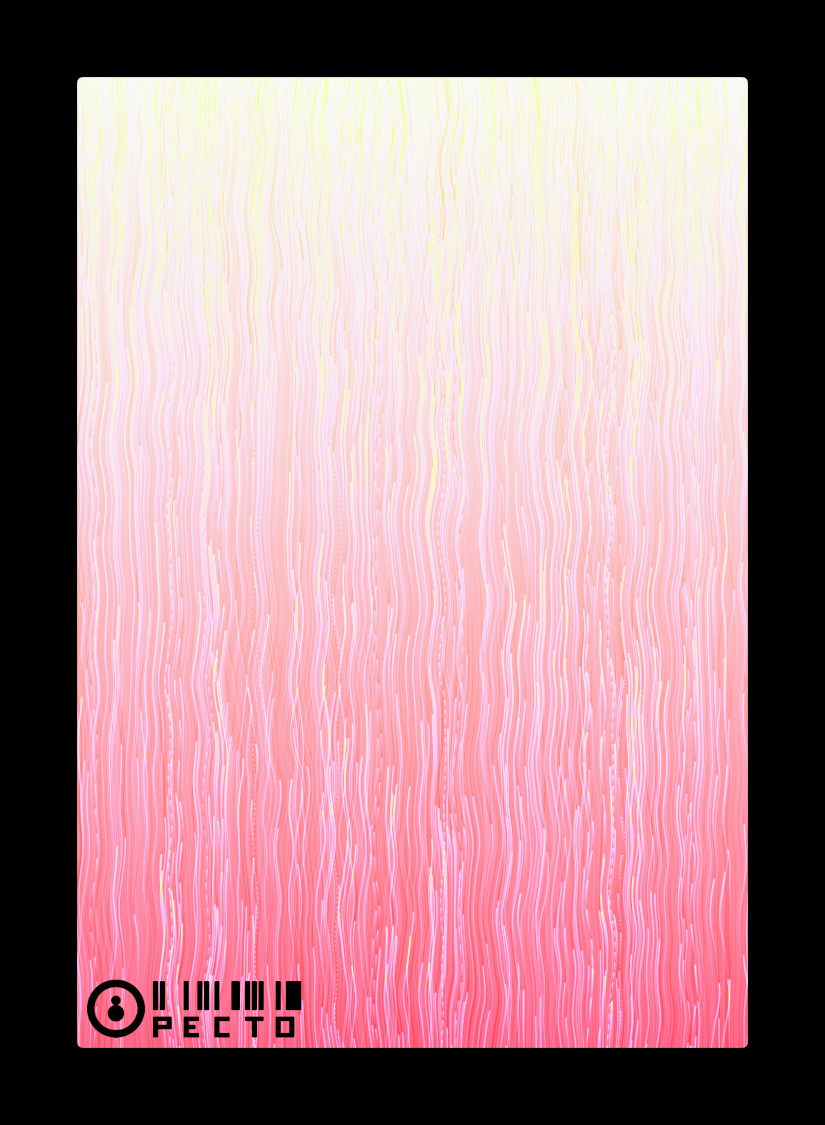
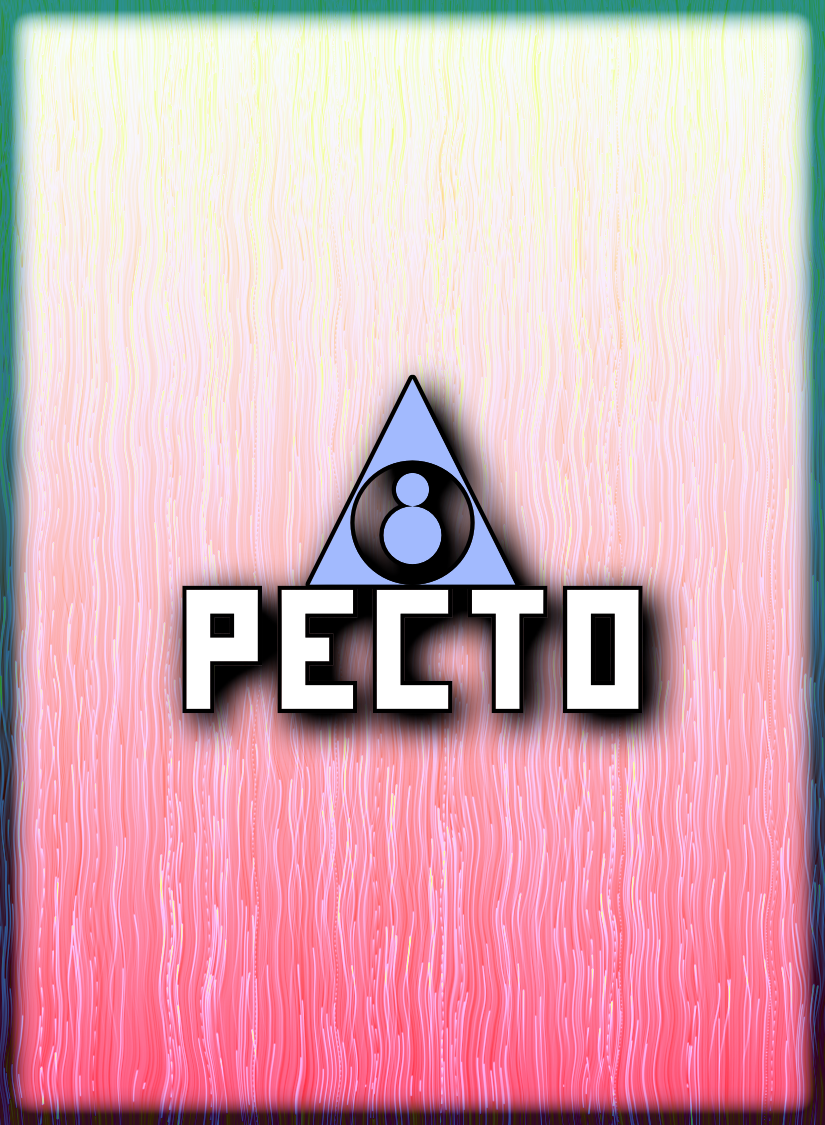
created a base quickstart rulebook

diff --git a/rules/RULESET_5.4.md b/rules/RULESET_5.4.md
@@ -1,0 +1,250 @@
+# :book: Pecto TCG — Official Rulebook :book:
+
+**Cole Smith-Evans 2026**
+*PectoTCG V5.3*
+
+---
+
+## Game Overview
+
+Pecto is a tactical card game where players deploy cards onto a shared battlefield. The objective of the game is to create a board state stronger than your opponents, and ultimately redue their life to 0 as a result.
+
+Each player manages:
+
+- A Deck
+- A Discard
+- A Void
+- Life
+- Level Cap
+
+---
+
+## Deck Construction
+
+Each deck contains 20 cards, which is then divided during the game.
+
+- Deck
+  - Your draw pile.
+- Hand
+  - Your playable cards.
+- Discard
+  - Where perished cards go.
+- Void
+  - A removed-from-game pile. Cards here typically cannot return.
+
+---
+
+## Card Anatomy
+
+Each card contains the following elements:
+
+### Name
+
+The name of the specific card.
+
+### LVL
+
+The influence requirement needed to Set the card.
+
+### Force
+
+Force represents both a card’s health and combat damage. Cards perish if they take damage and their force is 0 or less. Cards that have force are considered units.
+
+### Cards with No Force
+
+A card with no force is represented by a greyed out force symbol. These cards perish when they receive any instance of damage, don't deal damage in combat, and cannot gain FORCE.
+
+### Text Boxes
+
+- Type
+  - Categorizes the card (Ghost, Golem, etc.)
+- Keywords
+  - Modifies how a card behaves (Bleed, Static, Quick).
+- Ritual Box
+  - An extra cost your must complete to set the card from your hand, put in a red box. Ignore rituals if a card is set via card effect.
+- Passive Box
+  - Passive or continuous abilities, put in a black box.
+- Cast Box
+  - If present, the card is considered a Spell card and may be cast to the Discard during any action or response opportunity, put in a blue box.
+- Skill Box
+  - Activated abilities. Normal skills (pink) make the card inactive. Free skills (green) do not. Put in a pink or green box.
+
+Cards may attack, cast, or activate skills immediately upon being Set. Cards cannot attack on each player's first turn.
+
+---
+
+## Skills
+
+Skills are an activated ability. A card can have up to 1 skill unless an effect card is attached that gives them a new skill. A card must be active in order for a skill to be activated, unless some other condition says otherwise. You can only activate skills during your turn.
+
+### Normal Skills
+
+Normal skills are represented by a pink text box at the bottom of the card. When you activate a normal skill, the card becomes inactive.
+
+### Free Skills
+
+Free skils are represented by a green text box at the bottom of the card. When you activate a free skill, the card remains active.
+
+### Cast
+
+Casting is similar to using a skill. A card with a blue textbox is able to be cast. A card must be active for it to be cast, unless some other condition says otherwise. When you cast a card, it is sacrificed and then its effect triggers. You are able to cast a card during your opponent's turn at response speed.
+
+---
+
+## Turn Structure
+
+Each player’s turn follows this order:
+
+1. Cards you control become active.
+2. Begin triggers activate. You may order them however you wish if you have multiple.
+3. Draw a card from the top of your deck.
+4. You level cap for that turn is reset.
+5. Action Phase — You may:
+   - Set cards
+   - Declare attacks
+   - Cast spells
+   - Activate skills
+   - Move their cards
+
+### Starting a Game
+
+Before the game begins, roll a D20 (or any die) and whoever rolls the higher number can choose to go first or second. It is typically advised to go first if unsure. Then each player draws 5 cards.
+
+Each player starts with:
+
+- 10 Life
+- 1 Influence
+
+Once the game begins, the player doing first draws a card and begins their turn, moving directly to the action phase.
+
+### Setting Cards
+
+You may Set cards from your hand onto the board or via card effect onto the board you cannot set a card if there is no available space on your board. A card can be Set from your hand if:
+
+- Its LVL is less than or equal to your Influence.
+- Its LVL is +1 higher than the highest-LVL card you control.
+
+> Example:
+> If your Influence is 1 and you control a LVL 1 card, you may Set LVL 2 cards.
+
+### Drawing Cards
+
+At the start of each turn, you draw 1 card. If you would draw and your Deck is empty: Shuffle your Discard to form a new Deck. If you were to draw a card and shuffle your discard but your discard is empty, you lose the game.
+
+This effect only applies when you specifically "draw" from your deck, not when cards are being searched or discarded/voided.
+
+### Responses
+
+When a player performs an action it resolves immediately. After the action resolves, the opponent may perform a response. Only 1 response per action is allowed. Any action that can be used as a response is considered "response speed".
+
+The following actions can be performed at response speed by default:
+
+- Casting spells
+- Activating skills
+- Setting cards with the Response keyword
+
+If one of these actions cannot be used as a response, the text describing the action will end with, "cannot be used as a response".
+
+### Card Combat
+
+At any point during your turn, you can declare an attack with any one of your cards (unless stated otherwise). When you do so, the card you declared the attack with will attack the zone directly in front of it. If there is no card in front of it, you may choose to attack an opposing back row card or the player directly, dealing damage to their life as if they were a card.
+
+When cards enter combat, both cards deal damage equal to their Force at the same time. If a card’s Force is 0 or less after combat, it perishes and is sent to the Discard.
+
+Declaring an attack is an action. The opponent may respond before the attack resolves. If the attacker is destroyed during this response, the attack does not happen.
+
+---
+
+## The Grid
+
+Cards are Set onto a 5-zone grid:
+
+> [ LF ] [ CF ] [ RF ]
+>> [ LB ] [ RB ]
+
+Cards may be placed in any zone unless otherwise stated.
+
+### Front Row
+
+Cards in the front row may declare attacks. They must attack the card directly in front of them. If no card is present they may attack the opposing back row card or the opponent directly. The opposing back row card is the back row card in the same side as the zone of your card. If your card is in the center zone you may attack either back row zone.
+
+### Back Row
+
+Cards in the back row cannot declare attacks unless specified. The back row is typically for support or utility cards.
+
+### Moving Cards/Movement Phase
+
+Once per turn, you may declare you are moving your cards. When this happens, you may move any number of cards to an adjacent zone, front row or back row. Only active cards can move during this phase. If two cards are adjacent to each other and are able to move, you may swap their positions. A card can only move 1 zone away from where it started during this phase.
+
+If a card can move in a different way (for example, via card effect), these rules are irrelevant and the card will determine how the movement can be made.
+
+---
+
+## Extra Mechanics
+
+### Shuffling Your Discard
+
+Some cards ask you to shuffle your discard pile (and then typically ask for you to draw X number of cards from the top). When this happens, take your discard pile, flip it upside down and shuffle it. Then flip it over again so the bottom card is now face up.
+
+### Searhing for Cards
+
+Some cards ask you to search your deck for specific cards. When this happens, take your deck and look until you find a suitable card. At this point, do whatever you are supposed to do with the card (typically adding it to your hand). Afterwards, shuffle your deck.
+
+### Tokens
+
+Tokens are temporary cards created by effects. Tokens enter play as specified. Tokens are treated as cards while on the board. When tokens perish, they go to the Void instead of the discard. Tokens do not count towards the respective pile's total that they reside in. For example, if your void has 2 cards and a token perishes and is sent to the void, the count is still 2, not 3 (the same applies if a token were to be sent to the discard for any reason).
+
+### Counters
+
+If a card requires you to add a counter to another card or player, add a dice (or any other representation) to the target to represent the counter. If the counters ever hit 0, you may remove the coutner respresentation.
+
+---
+
+## Glossary
+
+### Basic Terms
+
+- Set
+  - When a card is placed onto the board.
+- Draw
+  - Draw from the top of your deck.
+- Perish
+  - Destroyed and sent to the Discard.
+- Cast
+  - Send a Spell from the board to the Discard and apply its effect.
+- Void
+  - Removed-from-game pile.
+
+### Keywords
+
+Keywords are special words that are short-hand for a specific mechanic.
+
+- Static
+  - Cannot move during the movement phase.
+- Bleed
+  - When a card with bleed connects an attack with a target (regardless of damage dealt), they receive a bleed counter. If a target has 3 or more bleed counters, they perish (including players).
+- Quick
+  - A card with quick deals damage before non quick cards. If both cards are quick, damage resolves normally.
+- Muted
+  - Cannot deal combat damage to players.
+- Safe
+  - Cannot be targetted by destruction effects (can still be sacrificed).
+- Sick
+  - At the start of each turn, lose half of their current force, rounded up (always takes at least 1 damage). If a sick card connects an attack with a card (regardless of damage dealt), the card also becomes sick.
+- Fragile
+  - If a card with fragile takes damage, they immediately perish.
+
+### Triggers
+
+Triggers are represented by yellow badges and activate automatically when their condition is met. Triggered effects resolve immediately.
+
+- Set
+  - When the card is set to the board.
+- Begin
+  - At the start of the owner's turn.
+- End
+  - During the end step of the owner's turn.
+- Perish
+  - When the card is destroyed.
+- Victor
+  - When the card deals combat damage. Does not trigger if the card perishes after.

diff --git a/patchnotes/version5.4.md b/patchnotes/version5.4.md
@@ -24,9 +24,19 @@ These changes improve clarity, consistency, and competitive integrity ahead of t
 
 ## Game format Updates
 
-### Turn Counter (Replaces Influence)
+### Level Cap (Replaces Influence)
 
-The Influence system has been removed and replaced by a new global resource called the Turn Counter.
+The Influence system has been removed and replaced by a new resource called the Level Cap.
+
+Level Cap:
+
+Your Level Cap determines the highest LVL card you may play.
+At the start of your turn, set your Level Cap to the higher of:
+
+- Your Turn Counter
+- One plus the highest LVL among cards you control.
+
+Whenever a card enters play under your control, or a card you control’s LVL increases, if that card’s LVL plus 1 is greater than your Level Cap, increase your Level Cap to that amount until the start of your next turn.
 
 Turn Counter Rules:
 
@@ -39,9 +49,8 @@ Additional Changes:
 
 - All effects that modified Influence have been removed or redesigned.
 - Most of these effects now modify card LVL instead.
-- Some cards may directly modify the Turn Counter itself.
 
-This change improves clarity by removing separate player-specific scaling resources and replacing them with a single shared progression system.
+This change was intended to fix going second as you could often wipe the second player's board and they would lose on the spot. It is also intended to make the system more clear overall.
 
 ### Skills/Casts
 
@@ -57,14 +66,13 @@ Responses are now tied strictly to card usage, ensuring proper tradeoffs and cou
 
 ### Face down cards
 
-Face-down cards are now a core game mechanic. During your turn, you may play cards face-down.Face-down cards follow these rules:
+Face-down cards are a new mechanic of the game. Some cards flip cards upside down or right side up.
 
-They are treated as:
+A face down card is treated as:
 
-- LVL 1 Units
+- LVL 1
 - 0 FORCE
-- No text
-- No type
+- No text, type, skill, cast
 - Their original properties are hidden while face-down.
 
 When destroyed while face-down:
@@ -80,8 +88,6 @@ When flipped face-up on the board:
 - The card re-enters play.
 - All Enter triggers activate.
 - Its LVL and FORCE reset to their original values.
-
-This mechanic primarily reduces early-game bricking while also enabling new flip-based strategies.
 
 ## Discard Standardization
 
@@ -107,8 +113,9 @@ Tokens now follow standard destruction rules.
 
 ### Bleed Keyword
 
-- Cards perish after receiving 2 Bleed counters
-- Players perish after receiving 4 Bleed counters
+- When a Bleed card hits a target, that target gains 1 Bleed counter before damage occurs
+- A target with a bleed counter now takes additional combat damage equal to the number of bleed counters on them (including players)
+- This is intended to make bleed counters fairly lethal while not being a hard instant kill.
 
 ### Set Trigger
 